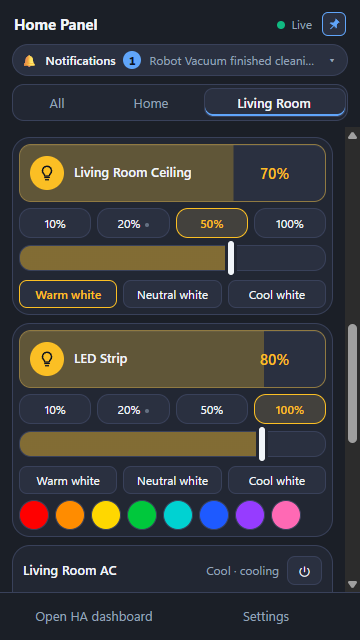
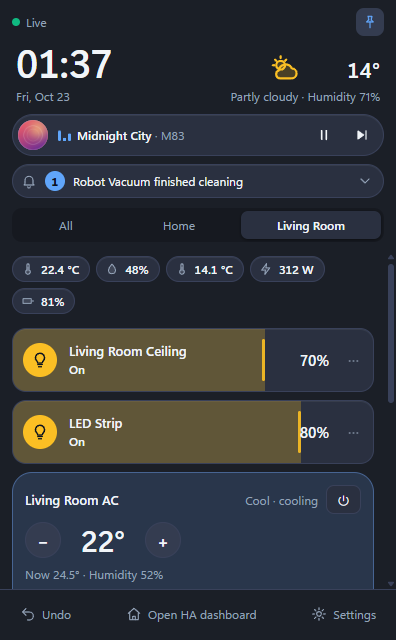
README: refresh panel screenshots for 1.7.0

diff --git a/README.tr.md b/README.tr.md
@@ -41,13 +41,13 @@ Tüm ekran görüntüleri gerçek bir evle değil, uydurma bir örnek evle çeki
 
 <table>
 <tr>
-<td align="center" valign="top"><img src="docs/screenshots/quick-panel.png" width="240" alt="Hava durumu, medya oynatıcı ve tahminle hızlı panel"><br><sub>Hızlı panel</sub></td>
-<td align="center" valign="top"><img src="docs/screenshots/lights.png" width="240" alt="Işık satırları ve hazır seviyeler ile beyaz tonuyla bir ışığın ayrıntısı"><br><sub>Işıklar</sub></td>
+<td align="center" valign="top"><img src="docs/screenshots/quick-panel.png" width="240" alt="Saat, hava durumu, çalan parça şeridi ve ışık satırlarıyla hızlı panel"><br><sub>Hızlı panel</sub></td>
+<td align="center" valign="top"><img src="docs/screenshots/lights.png" width="240" alt="Hazır seviyeler, kaydırıcı ve beyaz tonuyla bir ışığın ayrıntısı"><br><sub>Işıklar</sub></td>
 <td align="center" valign="top"><img src="docs/screenshots/climate-fan.png" width="240" alt="Klima ve vantilatör kartları"><br><sub>Klima ve vantilatör</sub></td>
 </tr>
 <tr>
 <td align="center" valign="top"><img src="docs/screenshots/sensors-forecast.png" width="240" alt="Hava tahmini ve sensör şeridi"><br><sub>Tahmin ve sensörler</sub></td>
-<td align="center" valign="top"><img src="docs/screenshots/todo-calendar.png" width="240" alt="Süpürge, yapılacaklar listesi ve yaklaşan etkinlikler"><br><sub>Yapılacaklar ve takvim</sub></td>
+<td align="center" valign="top"><img src="docs/screenshots/todo-calendar.png" width="240" alt="Yapılacaklar listesi ve yaklaşan etkinlikler"><br><sub>Yapılacaklar ve takvim</sub></td>
 <td align="center" valign="top"><img src="docs/screenshots/notifications.png" width="240" alt="Paneldeki Home Assistant bildirimleri"><br><sub>Bildirimler</sub></td>
 </tr>
 <tr>

diff --git a/README.md b/README.md
@@ -41,13 +41,13 @@ All screenshots use a made-up demo home, not a real one.
 
 <table>
 <tr>
-<td align="center" valign="top"><img src="docs/screenshots/quick-panel.png" width="240" alt="Quick panel with weather, a media player and the forecast"><br><sub>Quick panel</sub></td>
-<td align="center" valign="top"><img src="docs/screenshots/lights.png" width="240" alt="Light rows and a light's detail view with presets and white tone"><br><sub>Lights</sub></td>
+<td align="center" valign="top"><img src="docs/screenshots/quick-panel.png" width="240" alt="Quick panel with the clock, weather, a now-playing strip and light rows"><br><sub>Quick panel</sub></td>
+<td align="center" valign="top"><img src="docs/screenshots/lights.png" width="240" alt="A light's detail view with presets, the slider and white tone"><br><sub>Lights</sub></td>
 <td align="center" valign="top"><img src="docs/screenshots/climate-fan.png" width="240" alt="Climate and fan cards"><br><sub>Climate and fan</sub></td>
 </tr>
 <tr>
 <td align="center" valign="top"><img src="docs/screenshots/sensors-forecast.png" width="240" alt="Weather forecast and sensor strip"><br><sub>Forecast and sensors</sub></td>
-<td align="center" valign="top"><img src="docs/screenshots/todo-calendar.png" width="240" alt="Vacuum, to-do list and upcoming events"><br><sub>To-do list and calendar</sub></td>
+<td align="center" valign="top"><img src="docs/screenshots/todo-calendar.png" width="240" alt="To-do list and upcoming events"><br><sub>To-do list and calendar</sub></td>
 <td align="center" valign="top"><img src="docs/screenshots/notifications.png" width="240" alt="Home Assistant notifications in the panel"><br><sub>Notifications</sub></td>
 </tr>
 <tr>
